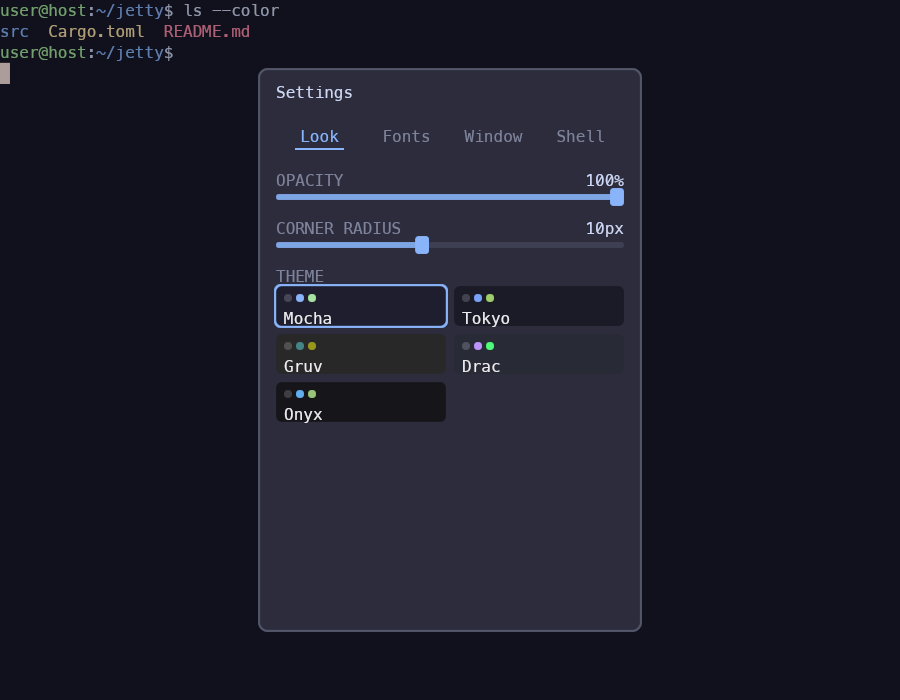
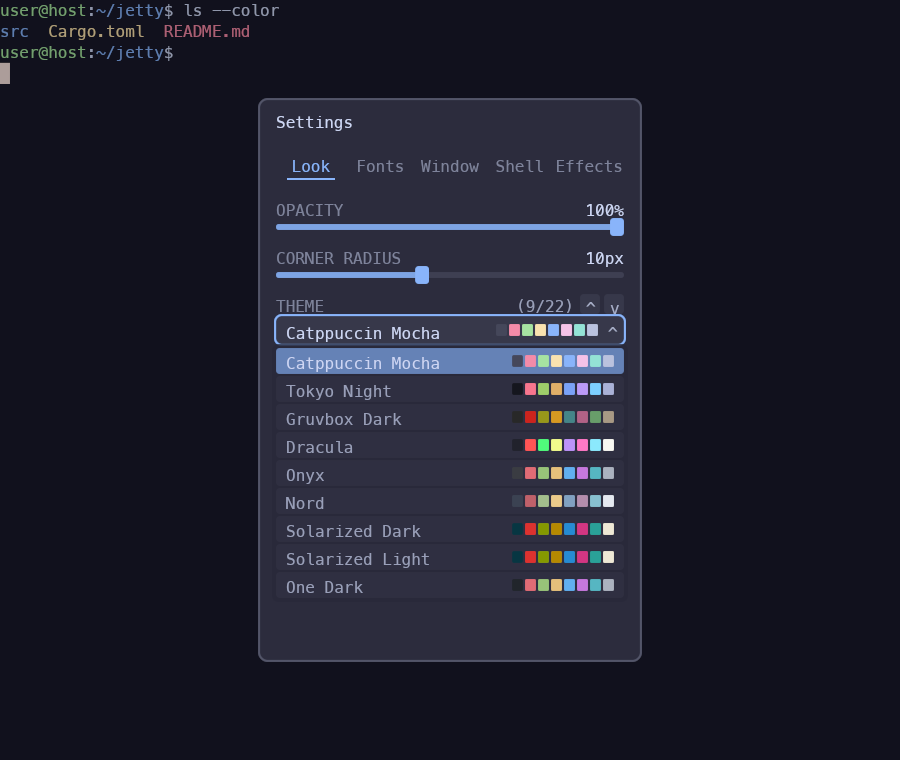
release: v0.7.0 — detachable tabs (Ctrl+Shift+D) + 22 themes
- Ctrl+Shift+D detaches/reattaches a tab into its own window (damage-driven, DE-independent)
- 22 built-in themes (up from 5); theme picker is now a scrollable dropdown with previews
- README: updated features + settings screenshot (theme dropdown showcase)

Claude-Session: https://claude.ai/code/session_01P5Hns5NnhtKtvKWA9XUAxx

diff --git a/docs/release-notes/v0.7.0.md b/docs/release-notes/v0.7.0.md
@@ -1,0 +1,35 @@
+# JeTTY v0.7.0
+
+Detachable tabs and a lot more themes.
+
+## Highlights
+
+- **Detach a tab into its own window** — press **`Ctrl+Shift+D`** to pop the
+  active tab out into its own terminal window; press it again (or close the
+  window) to reattach. Extra windows are damage-driven, so they don't cost idle
+  CPU, and there's no desktop-environment-specific code — just winit.
+- **22 built-in themes** (up from 5) — Catppuccin (Mocha/Macchiato), Tokyo Night,
+  Gruvbox, Dracula, Onyx, Nord, Solarized (dark/light), One Dark, Monokai (+Pro),
+  Everforest, Rosé Pine, Kanagawa, Material, Ayu (dark/mirage), Tomorrow Night,
+  Oceanic Next, GitHub Dark, Palenight. The theme picker is now a scrollable
+  dropdown with a live color-swatch preview per theme.
+
+## Install
+
+```bash
+curl -fsSL https://raw.githubusercontent.com/bozdemir/JeTTY/main/install.sh | sh
+```
+
+Or a `.deb` / **AppImage** from the assets below (the installer verifies
+`SHA256SUMS.txt`). Build from source: `cargo build --release`.
+
+## Artifacts
+
+| File | What |
+|---|---|
+| `jetty-0.7.0-x86_64-linux.tar.gz` | Portable Linux binary + assets |
+| `jetty_0.7.0_amd64.deb` | Debian / Ubuntu package |
+| `JeTTY-0.7.0-x86_64.AppImage` | Universal Linux AppImage |
+| `SHA256SUMS.txt` | Checksums |
+
+**Full changelog:** [`CHANGELOG.md`](https://github.com/bozdemir/JeTTY/blob/main/CHANGELOG.md).

diff --git a/CHANGELOG.md b/CHANGELOG.md
@@ -7,6 +7,21 @@ and this project adheres to [Semantic Versioning](https://semver.org/spec/v2.0.0
 
 ---
 
+## [0.7.0] — 2026-07-01
+
+### Added
+- **Detach / reattach a tab into its own window** — `Ctrl+Shift+D` pops the
+  active tab out into its own bare terminal window (no tab bar); the same key (or
+  closing it) reattaches it to the main window. Damage-driven, so extra windows
+  don't cost idle CPU. Desktop-environment-independent (winit, no compositor code).
+- **22 built-in themes** (up from 5) — added Nord, Solarized dark/light, One Dark,
+  Monokai (+Pro), Everforest, Rosé Pine, Kanagawa, Material, Ayu dark/mirage,
+  Tomorrow Night, Oceanic Next, GitHub Dark, Palenight, and Catppuccin Macchiato.
+  The theme picker (Settings → Look) is now a scrollable dropdown with a live
+  color-swatch preview per theme instead of a fixed card grid.
+
+---
+
 ## [0.6.2] — 2026-06-30
 
 ### Changed

diff --git a/README.md b/README.md
@@ -44,8 +44,8 @@
   - **Dropdown** — slides down from the top edge, full screen width, Yakuake/Guake style, with adjustable width & height.
 - ✨ **Summon effects** — five self-written GPU reveal shaders, selectable in settings: **Phosphor Ignition** (default — CRT power-on), **Bayer Crystallize**, **Liquid Drop**, **Focus Pull**, or **None**.
 - 📺 **Visual effects** — an optional **CRT** mode (curvature, scanlines, shadow-mask, bloom, chromatic aberration, vignette + animated roll/flicker/jitter) and a **caret flash/glow**, all under a dedicated **Effects** settings tab. Off by default, so the default look and ~0% idle CPU are untouched.
-- 🗂️ **Tabs** — `Ctrl+Shift+T` new, `Ctrl+Shift+W` close (with confirm), `Ctrl+Tab` / `Ctrl+1‒9` switch, double-click to rename.
-- 🎨 **5 beloved themes** — Catppuccin Mocha (default), Tokyo Night, Gruvbox Dark, Dracula, and Onyx, with exact community palettes. Every UI surface (panel, menus, tab bar, welcome, confirm dialogs) re-skins with the active theme.
+- 🗂️ **Tabs** — `Ctrl+Shift+T` new, `Ctrl+Shift+W` close (with confirm), `Ctrl+Tab` / `Ctrl+1‒9` switch, double-click to rename, **`Ctrl+Shift+D` detach a tab into its own window** (and reattach).
+- 🎨 **22 built-in themes** — Catppuccin (Mocha/Macchiato), Tokyo Night, Gruvbox, Dracula, Onyx, Nord, Solarized (dark/light), One Dark, Monokai (+Pro), Everforest, Rosé Pine, Kanagawa, Material, Ayu (dark/mirage), Tomorrow Night, Oceanic Next, GitHub Dark, Palenight — exact community palettes, picked from a scrollable dropdown with live color previews. Every UI surface re-skins with the active theme.
 - 🪟 **Custom-decorated window** — borderless client-side decorations, our own title bar, rounded corners (radius slider), runtime opacity.
 - 🔤 **Live font control** — change font **size** (`Ctrl + +/-/0`) and **family** (any installed monospace) at runtime, no restart.
 - 📋 **Selection & clipboard** — drag to select (auto-copies), **Shift+drag** to select even inside mouse-aware TUIs (vim/htop/tmux/Claude Code), right-click **Copy / Paste / Select All** menu, `Ctrl+Shift+C/V`, middle-click paste, bracketed-paste aware.
@@ -62,7 +62,7 @@
 | <img src="assets/screenshots/catppuccin.png" width="400"> | <img src="assets/screenshots/tokyo-night.png" width="400"> |
 | **Gruvbox Dark** | **Dracula** |
 | <img src="assets/screenshots/gruvbox.png" width="400"> | <img src="assets/screenshots/dracula.png" width="400"> |
-| **Onyx** | **Settings (theme cards)** |
+| **Onyx** | **Settings — 22 themes, live previews** |
 | <img src="assets/screenshots/onyx.png" width="400"> | <img src="assets/screenshots/settings.png" width="400"> |
 
 | CRT effect (curvature · scanlines · bloom · vignette) | Summon effect (Phosphor Ignition) |